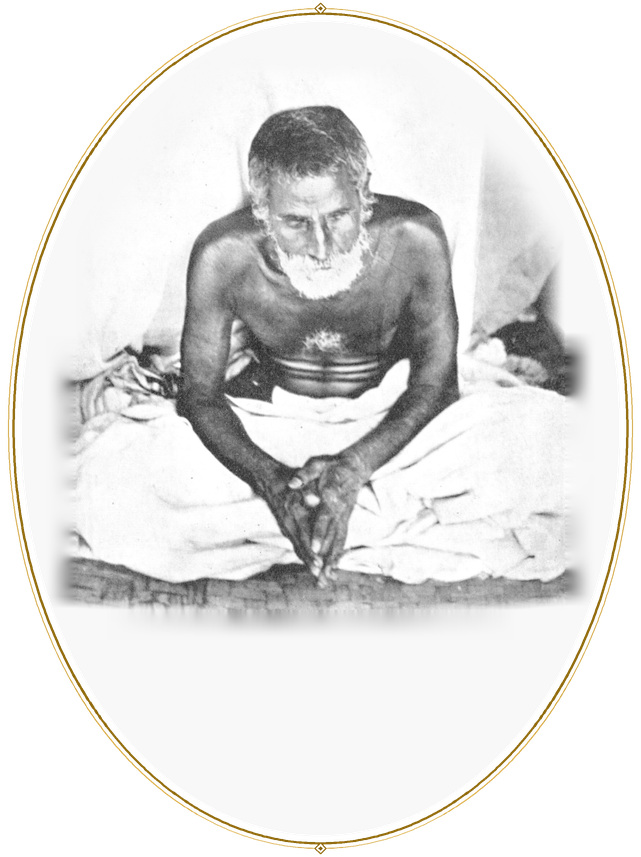
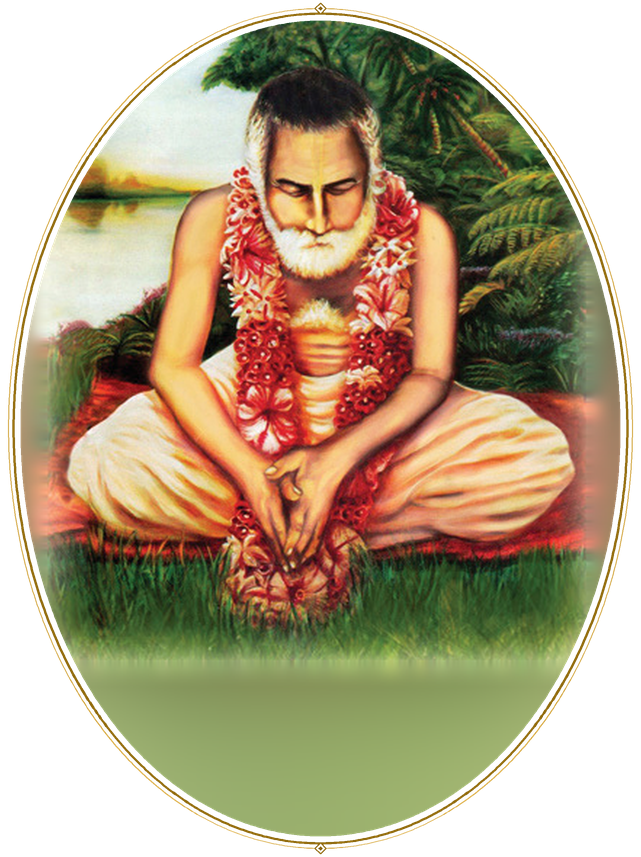
[Arcana-paddhati] Reader v7.4.1: parampara sources — Gaura Kishora book painting, Prabhupada full-figure photo (body rule)
Independent check: source pictures that themselves cut the figure are not used.
- 03 Gaura Kishora dasa Babaji: the Wikimedia photo (ca.1900) is truncated at both sides (lap
  cloth/knees); back to the «Victory of Pure Love» painting, whole seated figure incl. both knees
  (x 24..372 of 391) inside the painting and the oval; contour re-traced at the knees.
- 06 Srila Prabhupada: the book painting (both books) cuts his right knee at the painting edge;
  now Wikimedia Commons «AC Bhaktivedanta Swami Prabhupada.jpg» (Paris 1972, Vanimedia,
  CC BY-SA 4.0), standing, whole figure inside the oval with >=5 % margin.
- Sources list «Источники изображений v7.4.md» updated (draft folder, not in git).

diff --git a/scripts/parampara/render_parampara.py b/scripts/parampara/render_parampara.py
@@ -73,8 +73,8 @@ GURUS = [
      [(185, 18), (143, 40), (227, 40), (58, 170), (312, 165), (38, 290), (334, 290), (20, 372), (23, 392),
       (48, 412), (53, 467), (130, 480), (250, 457), (350, 457), (330, 400)]),
     ("03", "3 Gaura-kisora dasa Babaji — VictoryOfPureLove_p11.jpeg",
-     [(190, 86), (146, 108), (237, 108), (98, 195), (287, 195), (28, 340), (20, 370), (38, 407), (118, 417),
-      (175, 467), (215, 467), (292, 417), (374, 360), (377, 390), (342, 320)]),
+     [(190, 86), (146, 108), (237, 108), (98, 195), (287, 195), (26, 334), (15, 366), (30, 405), (118, 417),
+      (175, 467), (215, 467), (292, 417), (381, 362), (378, 392), (346, 316)]),   # knees: x 24 … 372 (v7.4.1)
     ("04", "4 Bhaktisiddhanta Sarasvati — VictoryOfPureLove_p11.jpeg",
      [(195, 23), (153, 48), (237, 48), (113, 160), (292, 155), (98, 300), (314, 300), (38, 395), (31, 410),
       (53, 447), (108, 480), (240, 482), (364, 472), (347, 420)]),
@@ -107,19 +107,23 @@ EXTRA = {
             (398, 394), (368, 420), (366, 500), (366, 600), (370, 660),                          # Advaita, left
             (382, 714), (440, 716), (520, 694), (600, 704), (690, 710),                          # lotus bases
             (697, 640), (697, 520), (696, 420), (688, 378)], "photo"),                       # Śrīvāsa, right
-    # The photo itself is truncated: the lap cloth / knees run out of the picture at both sides (x = 0 and
-    # x = 1355, y ≈ 930–1440). The photo edges are therefore kept inside the oval with margin and fade softly.
-    "03": (SRC / "internet — Gaurakisora dasa Babaji ca.1900 (Wikimedia Commons, PD).jpg", None,
-           [(650, 105), (470, 180), (830, 180), (275, 420), (1085, 420), (255, 900), (1105, 900),
-            (0, 925), (0, 1445), (1355, 915), (1355, 1440),                                     # cloth at the edges
-            (400, 1450), (690, 1490), (1000, 1450)], None),
+    # 03: the v7.4 Wikimedia photo (Gaurakisora dasa Babaji ca.1900, PD) is itself truncated — the lap
+    # cloth / knees run out of the picture at both sides — so v7.4.1 goes back to the book painting
+    # (GURUS «03» above: the whole seated figure incl. both knees and hands is inside the painting).
+    # 06: the book painting (both books) cuts Śrīla Prabhupāda's right knee at the painting's edge; v7.4.1 uses
+    # the only free full-figure photo found: Wikimedia Commons «AC Bhaktivedanta Swami Prabhupada.jpg»
+    # (Paris, 22.07.1972, Vanimedia, CC BY-SA 4.0 — attribution required), standing, 475 × 699.
+    "06": (SRC / "internet — AC Bhaktivedanta Swami Prabhupada 1972 Paris (Wikimedia Commons, CC BY-SA 4.0).jpg", None,
+           [(237, 52), (198, 88), (280, 88), (190, 160), (310, 150), (130, 200), (128, 300), (130, 460),
+            (138, 560), (140, 620), (160, 680), (265, 660), (310, 684), (330, 640), (352, 612),
+            (378, 560), (400, 470), (400, 380), (392, 250), (345, 160)], None),                          # walking stick = object
 }
 
 # Background outside the usable picture (v7.4.1): fade into a light neutral tone over FADE_OUT × oval width;
-# the photos 00/03 also fade their own border inwards (FADE_IN) — only outside the figure's contour (+ PROTECT).
-# Book paintings keep their colours but end in a soft, heavily blurred tone of their own edge (no streaks).
+# the photo 00 also fades its own border inwards (FADE_IN) — only outside the figure's contour (+ PROTECT).
+# Book paintings and the 06 photo keep their colours but end in a soft, heavily blurred tone of their own edge.
 STYLE = {"00": {"tone": "neutral", "fade_out": 0.05, "fade_in": 0.05, "vignette": 0.10},
-         "03": {"tone": "neutral", "fade_out": 0.05, "fade_in": 0.05, "vignette": 0.10}}
+         "06": {"tone": "soft", "fade_out": 0.06, "fade_in": 0.0}}
 STYLE_PAINTING = {"tone": "soft", "fade_out": 0.05, "fade_in": 0.0}
 PROTECT = 0.025     # contour buffer (× oval width) never touched by the inward fade
 
